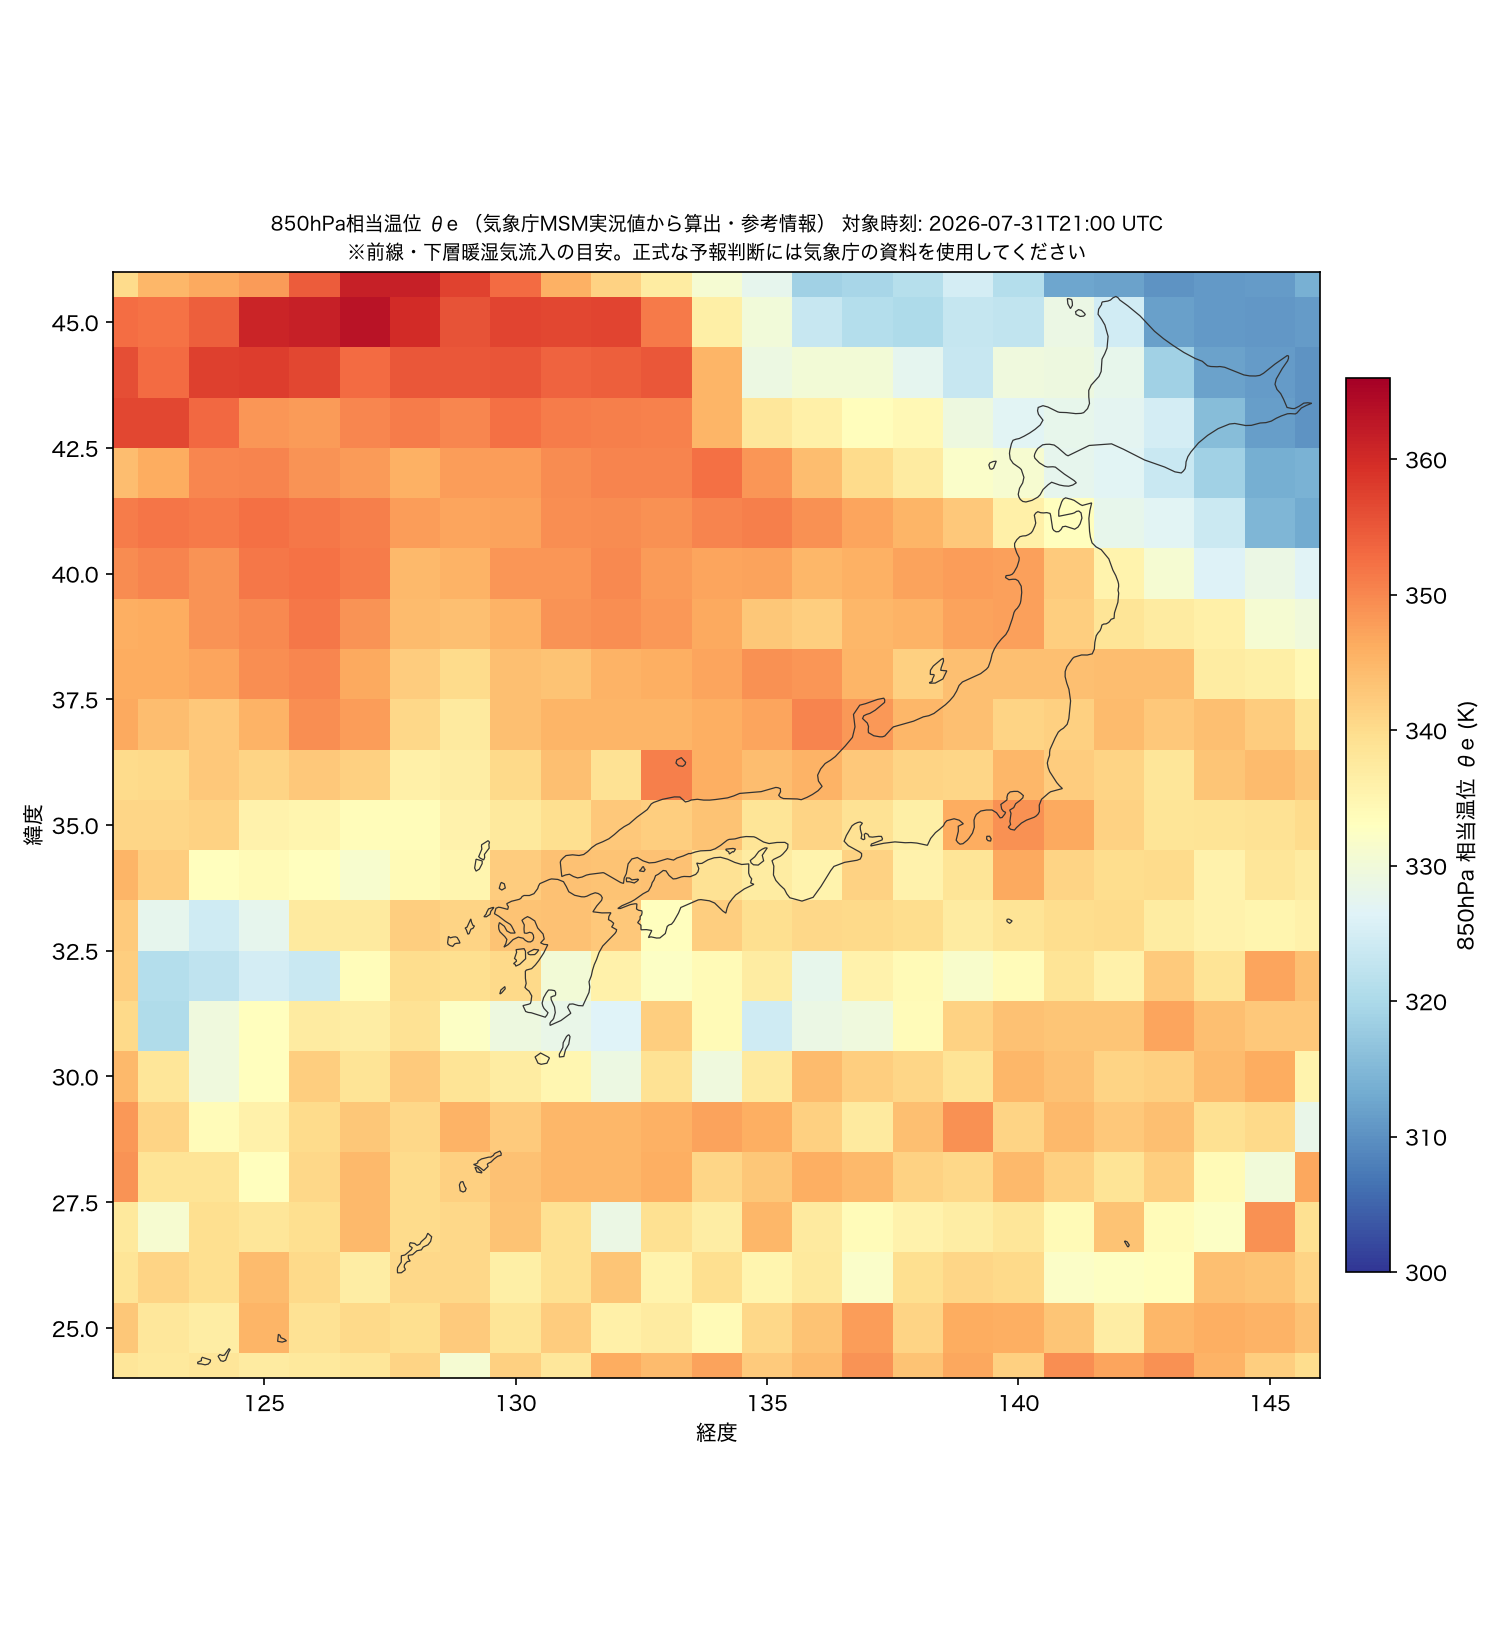
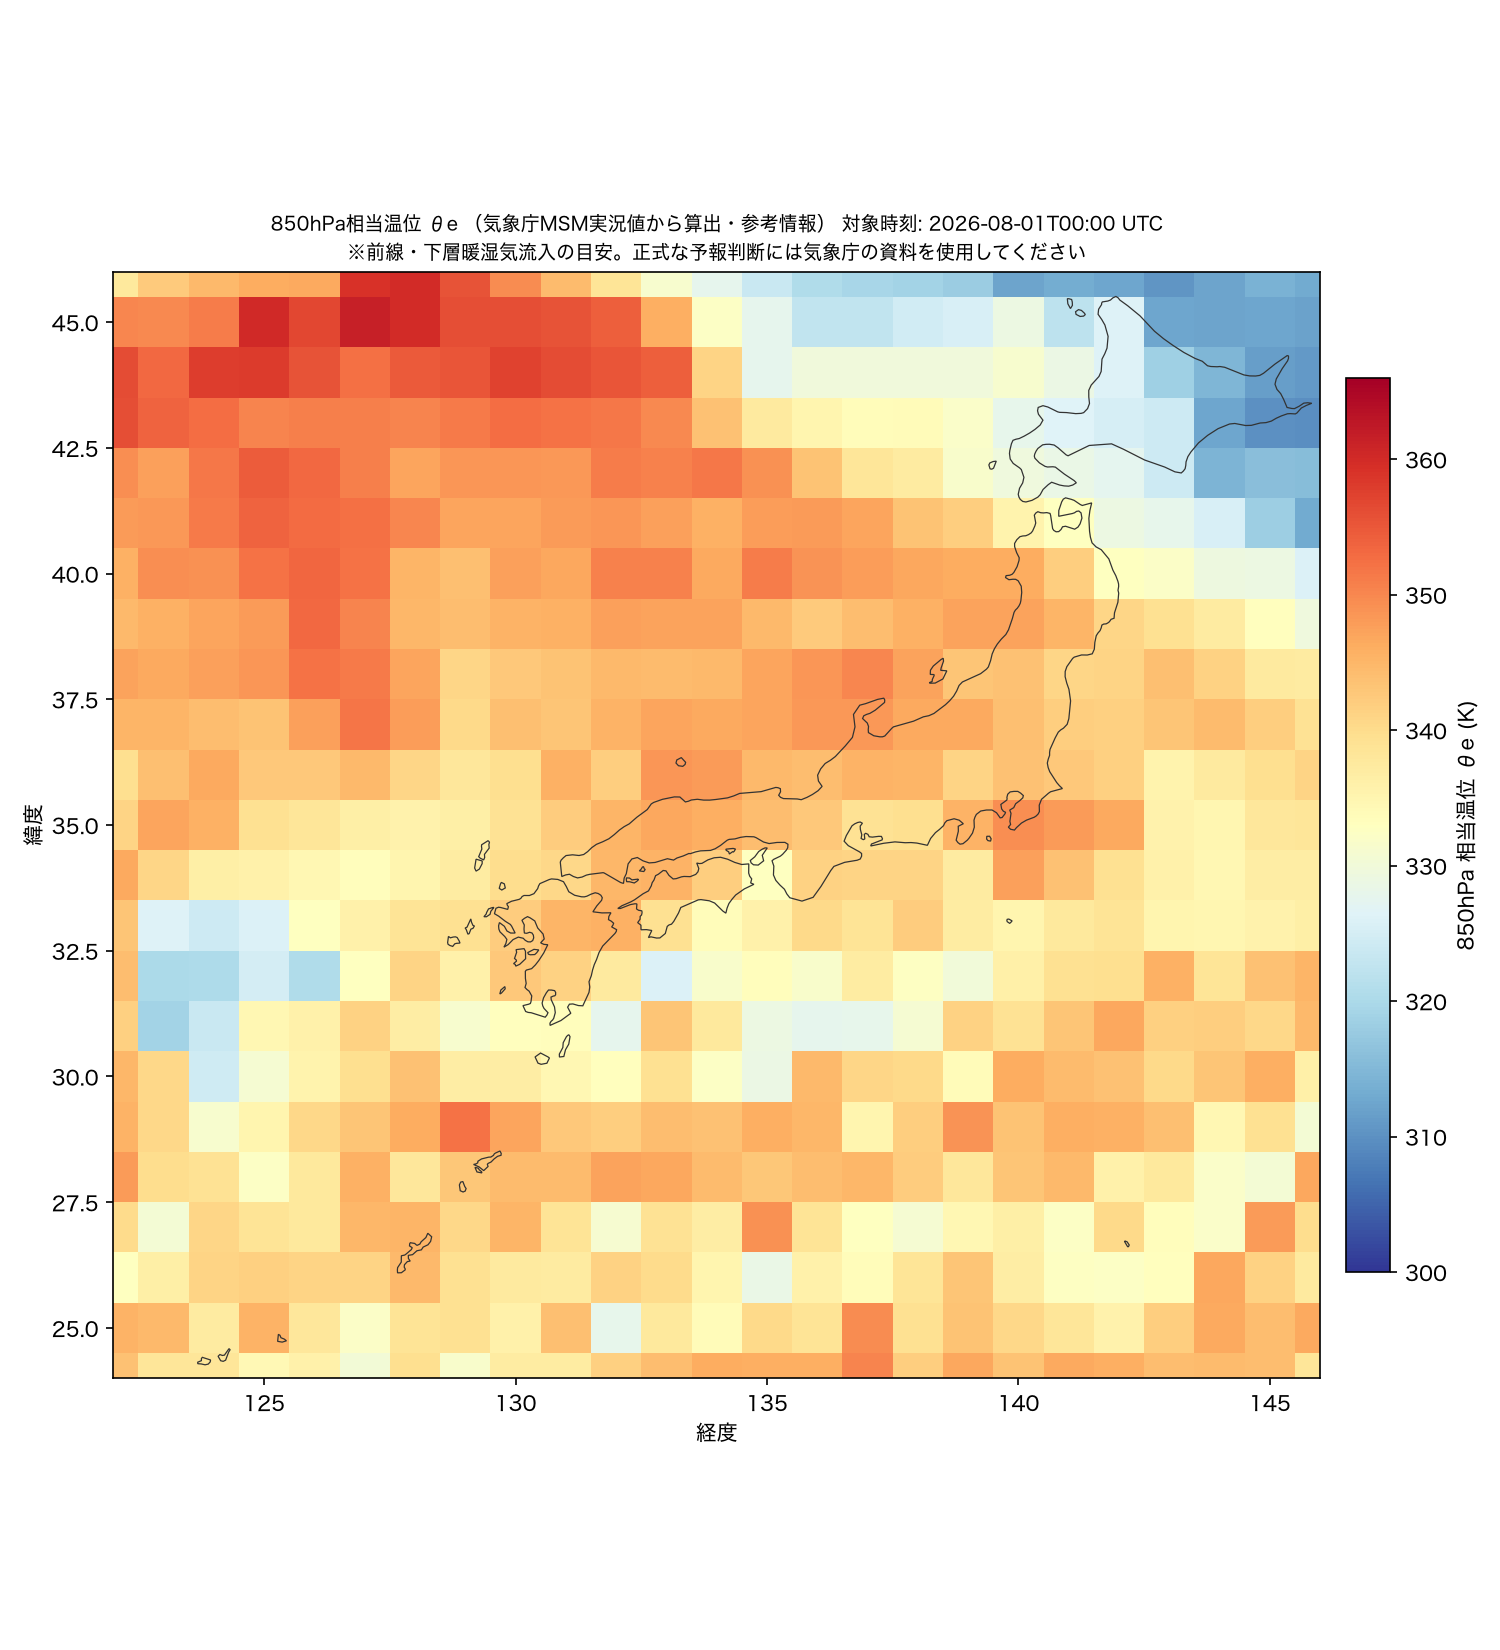
Update VMC map

diff --git a/index.html b/index.html
@@ -3,7 +3,7 @@
 <head>
 <meta charset="utf-8">
 <meta name="viewport" content="width=device-width, initial-scale=1">
-<title>VFR VMC 維持可否マップ (対象時刻: 2026-07-31T21:00 UTC)</title>
+<title>VFR VMC 維持可否マップ (対象時刻: 2026-08-01T00:00 UTC)</title>
 <style>
   :root {
     --bg: #eef1f5; --surface: #ffffff; --text: #1b2530; --text-muted: #5b6b7d;
@@ -95,7 +95,7 @@
     <h1>VFR VMC 維持可否マップ</h1>
     <p class="subtitle">日本全国、地形と雲底の隙間からVMC(視認気象状態)を維持できるかを判定した参考マップです。v1簡易判定につき、実運航の判断には正式な気象情報を使用してください。</p>
     <div class="chips">
-      <span class="chip">気象予報 対象時刻 <b>2026-07-31T21:00 UTC</b></span>
+      <span class="chip">気象予報 対象時刻 <b>2026-08-01T00:00 UTC</b></span>
       <span class="chip">下層悪天予想図 有効時刻 <b>0000 UTC 01 Aug 2026</b></span>
     </div>
   </header>
